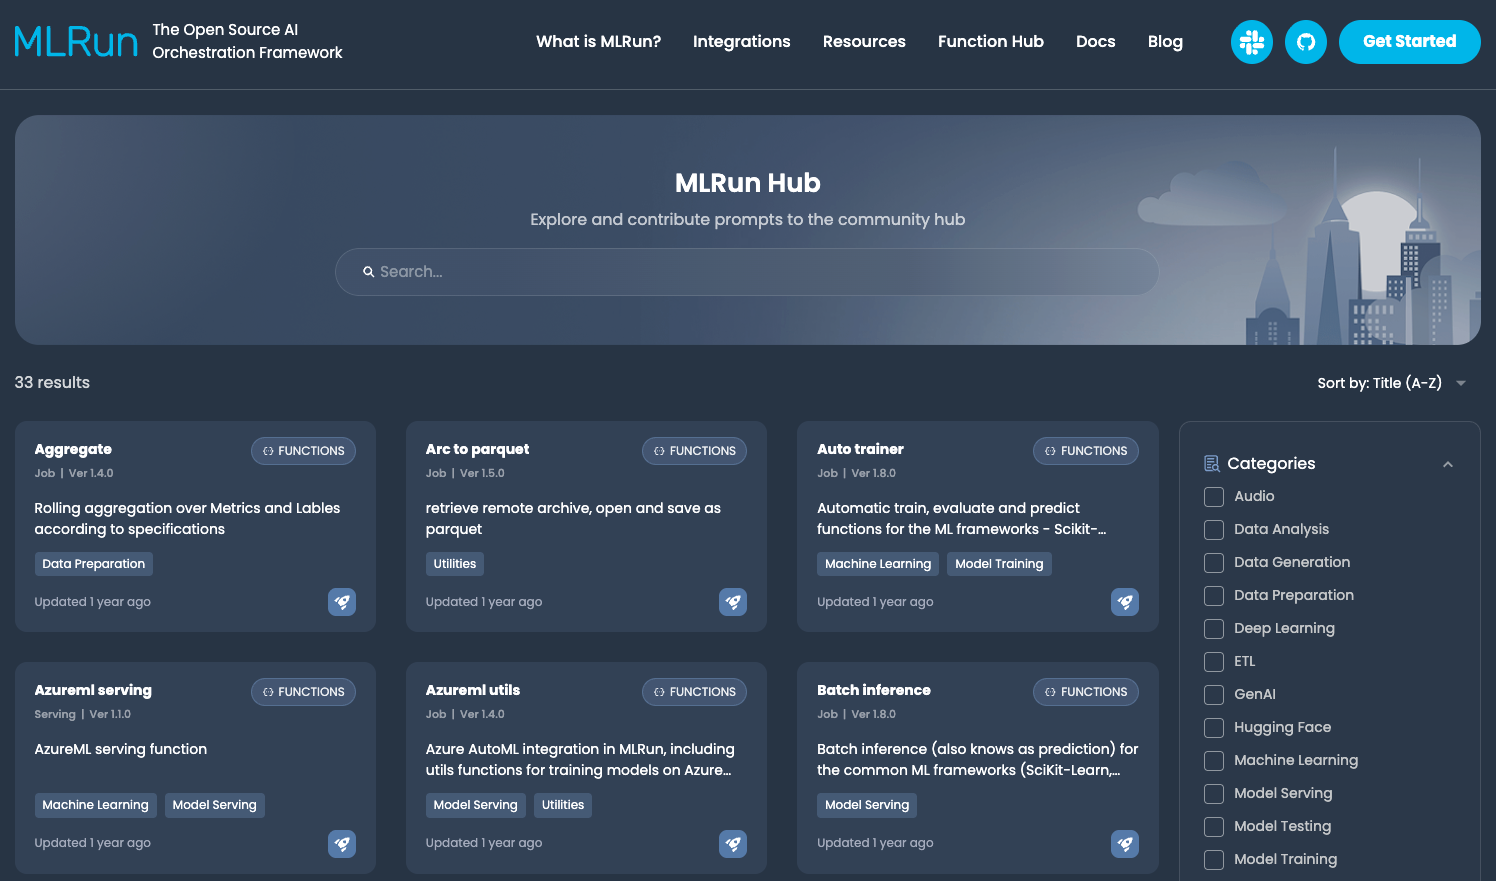
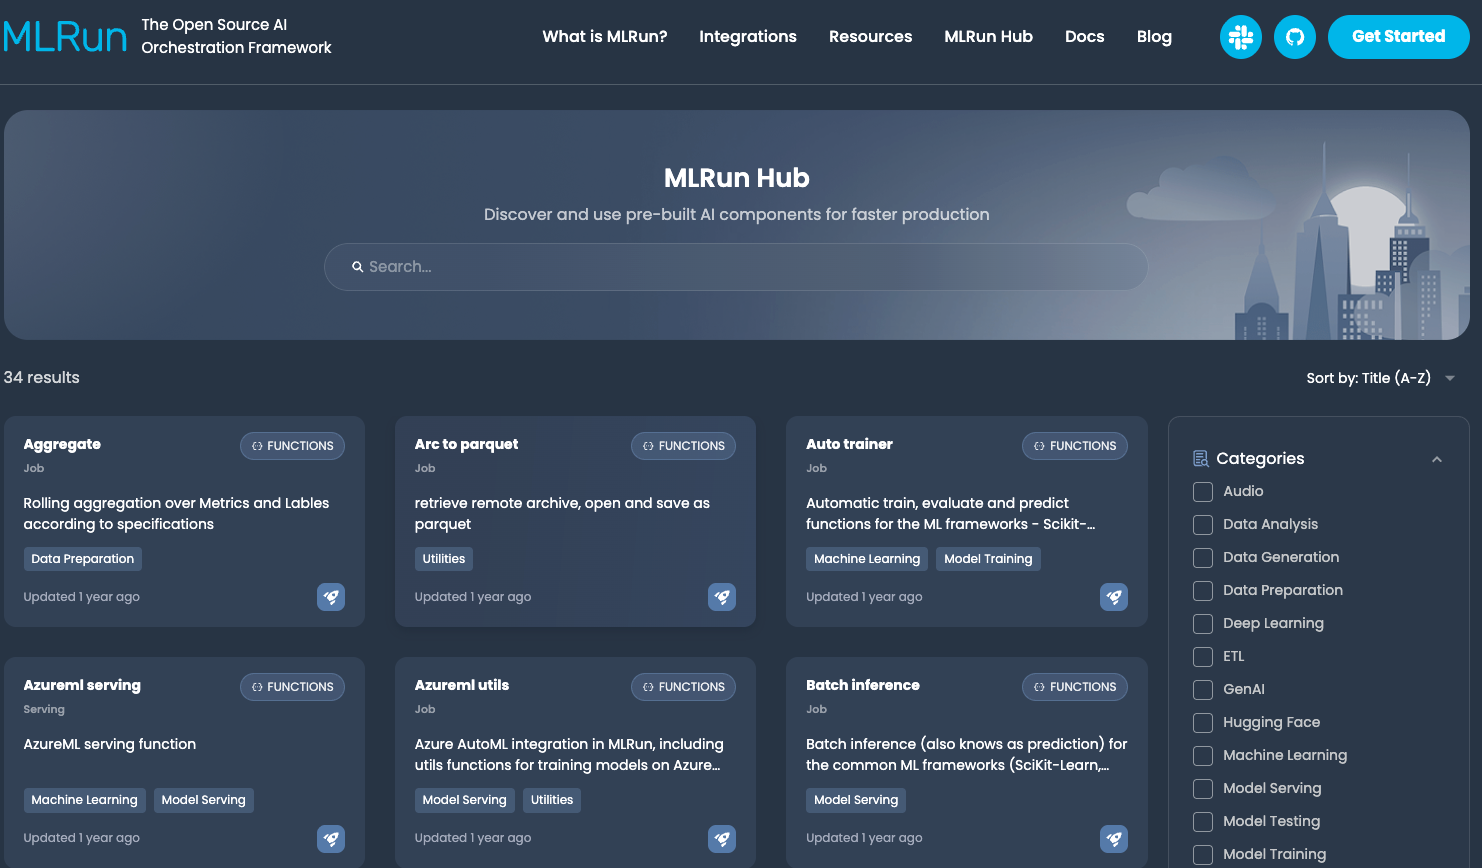
[Docs] Update hub doc (#8941)

Pull request: [Docs] Update hub doc
### 📝 Description
add import_function and improve set_function

No Jira for this

diff --git a/docs/runtimes/load-from-hub.md b/docs/runtimes/load-from-hub.md
@@ -1,56 +1,68 @@
 (load-from-hub)=
-# MLRun hub
+# Import modules and functions from the MLRun hub
 
-The [MLRun hub](https://www.mlrun.org/hub/) has a wide range of functions, modules, and apps that you can incorporate into your projects, for a variety of use cases.
-You can search and filter the categories and kinds to find an item that meets your needs.
-Reusing built-in code can significantly speed up your development cycle. 
+The [MLRun hub](https://www.mlrun.org/hub/) provides a wide range of pre-developed functions and modules for your projects, for a variety of use cases. Reusing built-in code can significantly speed up your development cycle.
+You can search and filter the categories and kinds to find an item that meets your needs. Every function and module in the hub has complete documentation and examples.
+
+The examples in this page assume that you are working in a project and that all dependencies were already imported.
+
 <br>
-![Hub](../_static/images/marketplace-ui.png)
+
+<img src="../_static/images/marketplace-ui.png" width="550">
+
+<br>
+
 **In this section**
 
 - [Functions](#functions)
-- [Model monitoring modules](#model-monitoring-modules)
+- [Modules](#modules)
 - [Custom hub](#custom-hub)
+
+```{caution} 
+**If you use custom hubs**: If you don't specify a hub name at all, the algorithm searches for the function in all the hubs, starting with the most recently defined (custom) hub and going backwards in time. The MlRun hub is the last in the search. If you have multiple hubs, best practice is to specify the hub name when importing from any hub.
+```
 
 ## Functions
 
-There are functions for ETL, data preparation, training (ML & Deep learning), serving, alerts and notifications and more.
-Each function has a docstring that explains how to use it. The functions are categorized and their associated versions are listed, so you can easily find a suitable function/module for your needs.
-
-### Prerequisiteß
-
-- {ref}`Create your project <create-projects>`
+There are functions for ETL, data preparation, training (ML & deep learning), serving, alerts and notifications and more.
+Each function has a docstring that explains how to use it. The functions are categorized and their associated versions are listed, so you can easily find a suitable function for your needs.
 
 ### Load a function from the MLRun hub
 
-This section demonstrates how to import a function from the hub into your project, and provides some basic instructions on how to run the function.
+There are two ways to import a function from the hub:
+- {py:meth}`~mlrun.import_function`: creates a function object that you can use as relevant, for example running it as a job
+- {py:meth}`~mlrun.projects.MlrunProject.set_function`: adds or update a function object to your project
 
-Run `project.set_function` to add or update a function object to your project.
-See all the parameters in {py:meth}`~mlrun.projects.MlrunProject.set_function`.
 
-The `describe` function analyzes a csv or parquet file for data analysis.
-To load the `describe` function from the MLRun hub:
+#### Use `import_function`
+This example uses the aggregate function, which perform a rolling aggregation of artifacts. This example also adds a custom aggregation function that the aggregate hub function will use when it runs.
+
+```
+# Import the function
+aggregate_function = mlrun.import_function("hub://aggregate")
+    ```
+import numpy as np
+
+# Declare a custom aggregation function
+def dist_from_mean(l):
+    mean = np.mean(l)
+    return abs(list(l)[3] - mean)
+```
+
+#### Use `set_function`
+
+This example runs the [describe function](https://www.mlrun.org/hub/functions/master/describe/). This function analyzes a dataset (in this case it's a csv file) and generates HTML files (e.g. correlation, histogram) and saves them under the artifact path.
 
 ```python
+# Load the `describe` function from the MLRun hub:
 project.set_function("hub://describe", "describe")
-```
 
-To load the same function from your [custom hub](#custom-hub):
-```python
+# Or load the same function from your [custom hub](#custom-hub):
 project.set_function("hub://<hub-name>/describe", "describe")
-```
-```{caution} 
-If you don't specify a hub name at all, the algorithm searches for the function in all the hubs, 
-giving preference to newly defined hubs. Therefore, if you 
-have multiple hubs, best practice is to explicitly mention the hub name.
-```
 
-After loading the function, create a function object named, for example, `my_describe`:
-
-```python
-my_describe = project.func("describe")
+# Create a function object named, for example, `my_describe`:
+my_describe = project.get_function("describe")
 ```
-
 ### View the function parameters
 
 To view the parameters, run the function with `.doc()`:
@@ -74,36 +86,58 @@ my_describe.doc()
         update_dataset  - when the table is a registered dataset update the charts in-place, default=False
 ```
 
+
 ### Run the function
 
 Use the `run` method to run the function.
 
 When working with functions, pay attention to the following:
 
-- Input vs. params &mdash; for sending data items to a function, send it via "inputs" and not as params.
-- Working with artifacts &mdash; Artifacts from each run are stored in the `artifact_path`, which can be set globally with the environment variable (MLRUN_ARTIFACT_PATH) or with the config. If it's not already set you can create a directory and use it in the runs. Using `{{run.uid}}` in the path creates a unique directory per run. When using pipelines you can use the `{{workflow.uid}}` template option.
+- Input vs. params &mdash; for sending data items to a function, send it via "inputs" and not as params. See {ref}`data-items`.
+- Working with artifacts &mdash; See {ref}`artifacts`.
 
-This example runs the describe function. This function analyzes a dataset (in this case it's a csv file) and generates HTML files (e.g. correlation, histogram) and saves them under the artifact path.
-
+Example of running the `describe` function:
 ```python
-DATA_URL = "https://s3.wasabisys.com/iguazio/data/iris/iris_dataset.csv"
-
-my_describe.run(name="describe", inputs={"table": DATA_URL}, output_path=artifact_path)
+describe_run = describe_func.run(
+    name="task-describe",
+    handler="analyze",
+    inputs={
+        "table": os.path.abspath("artifacts/random_dataset.parquet")
+    },  # replace it with your dataset path
+    params={"label_column": "label"},
+    local=True,
+)
+```
+Example of running the `aggregate` function:
+```python
+aggregate_run = aggregate_function.run(
+    name="aggregate",
+    params={
+        "metrics": ["Temperature", "Humidity"],
+        "labels": ["Occupancy"],
+        "metric_aggs": ["mean", "std", dist_from_mean],
+        "label_aggs": ["sum"],
+        "window": 5,
+        "center": True,
+    },
+    inputs={"df_artifact": data_path},
+    local=True,
+)
 ```
 
-## Model monitoring modules
-The modules are categorized and their associated versions are listed, so you can easily find a suitable module for your needs.
+## Modules
+There are two types of modules: generic and model monitoring. The modules are categorized and their associated versions are listed, so you can easily find a suitable module for your needs.
 Each module in the hub has an accompanying example notebook with complete usage examples. 
 
 There are two means of using modules from the hub:
 - [Import the module as a model monitoring function and use it without modifying it](#module-off-shelf)
 - [Import the module, and optionally test and modify it before running it](#modify-module)
 
-### Prerequisites
-
-1. {ref}`Create your project <create-projects>`
-2. [Set the datastore profiles](../tutorials/05-model-monitoring.ipynb#set-datastore-profiles)
-2. [Enable model monitoring](../tutorials/05-model-monitoring.ipynb#enable-model-monitoring)
+```{admonition} Note
+If you are importing a model monitoring module:
+- [Set the datastore profiles](../tutorials/05-model-monitoring.ipynb#set-datastore-profiles)
+- [Enable model monitoring](../tutorials/05-model-monitoring.ipynb#enable-model-monitoring)
+```
 
 (module-off-shelf)=
 ### Use a module "off the shelf"
@@ -144,7 +178,28 @@ fn = project.set_model_monitoring_function(
     image=image,
 )
 project.deploy_function(fn)
-````
+```
+
+### View module metadata
+
+Use `get_hub_module` to return a HubModule object that provides the metadata of the module and also includes APIs for the module, such as install the relevant requirements or download the files.
+`get_hub_module` retrieves the metadata of the module without downloading it. For example:
+```
+# Getting hubmodule metadata
+hub_module = mlrun.get_hub_module("hub://histogram_data_drift")
+```
+
+Additional operations:
+```
+# print out the details
+hub_module.to_dict()
+
+# Download module files into a local directory
+hub_module.download_module_files("./temp")
+
+# Import the module 
+mod = hub_module.module()
+```
 
 ## Custom hub
 Alternatively, you can create your own hub, and connect it to MLRun. Then you can import functions (with their tags) from your custom hub.
@@ -179,16 +234,12 @@ The hierarchy must be:
 				- static (optional)
 					- html files
 					
-
-
-
 ### Add a custom hub to the MLRun database
 When you add a hub, specify `order=-1` to add it to the top of the list. 
-The list order is relevant when ßloading a function.
+The list order is relevant when loading a function.
 if you don't specify a hub name, MLRun starts searching for the function with the last added hub.
 If you want to add a hub but not at the top of the list, view the current list using {py:meth}`~mlrun.db.httpdb.HTTPRunDB.list_hub_source`.
 The MLRun hub is always the last in the list (and cannot be modified). 
-
 
 To add a hub, run:
 ```python
@@ -196,17 +247,18 @@ import mlrun.common.schemas
 
 # Add a custom hub to the top of the list
 private_source = mlrun.common.schemas.IndexedHubSource(
-    order=-1,
     source=mlrun.common.schemas.HubSource(
         metadata=mlrun.common.schemas.HubObjectMetadata(
-            name="private", description="a private hub"
+            name="my_cool_hub", description="a private hub"
         ),
         spec=mlrun.common.schemas.HubSourceSpec(
-            path="https://mlrun.github.io/marketplace", channel="development"
+            path="https://raw.githubusercontent.com/<github-user>/marketplace/refs/heads/master",  # forked from mlrun hub repo
+            channel="master",  # sub-directory in the relevant asset type
         ),
     ),
 )
 
-db.create_hub_source(private_source)
+mlrun.get_run_db().create_hub_source(private_source)
 ```
-
+To access a function or module directly from your hub, specify its path, for example:
+`mlrun.import_function("hub://my_cool_hub/describe")`

diff --git a/docs/runtimes/configuring-job-resources.md b/docs/runtimes/configuring-job-resources.md
@@ -172,7 +172,7 @@ for each volume to mount to the pod. Multiple volumes can be configured for a si
 
 
 ## Preemption mode: Spot vs. On-demand nodes
-ß
+
 You can control whether to run your MLRun functions on spot nodes or on-demand nodes. 
 - **Spot (preemptible)** nodes give you access to spare computing capacity from your cloud environment. 
 With spot instances, you request capacity from specific availability zones, dependent on spare computing capacity. This is a good choice if you can be flexible about when your application runs,